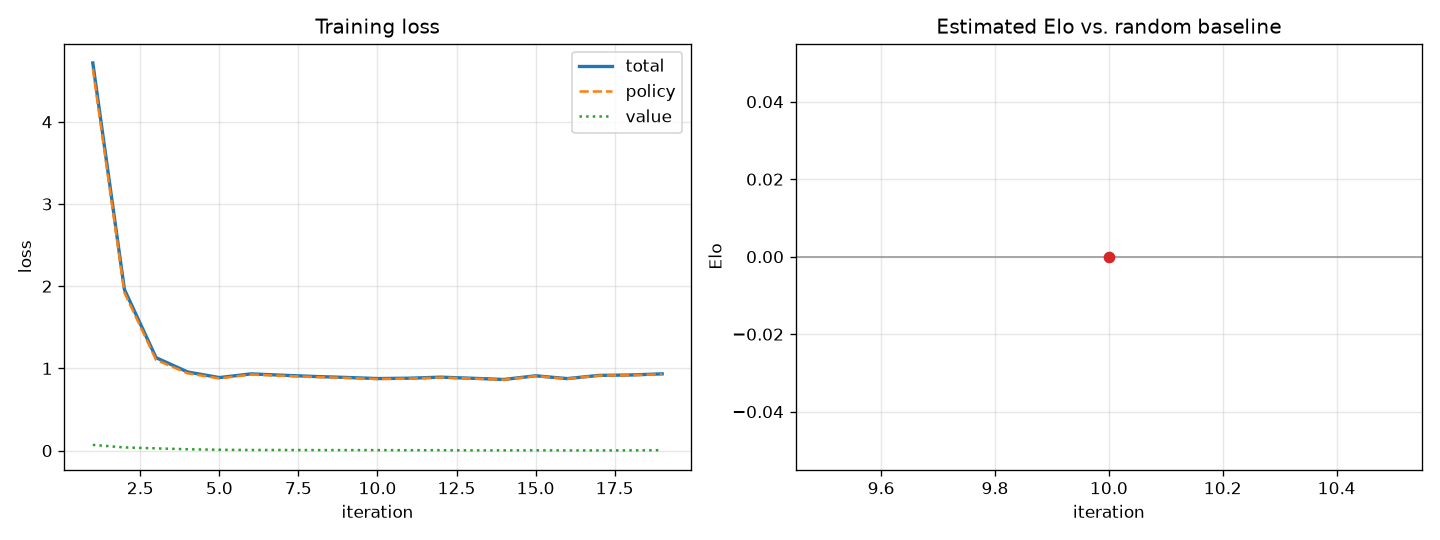
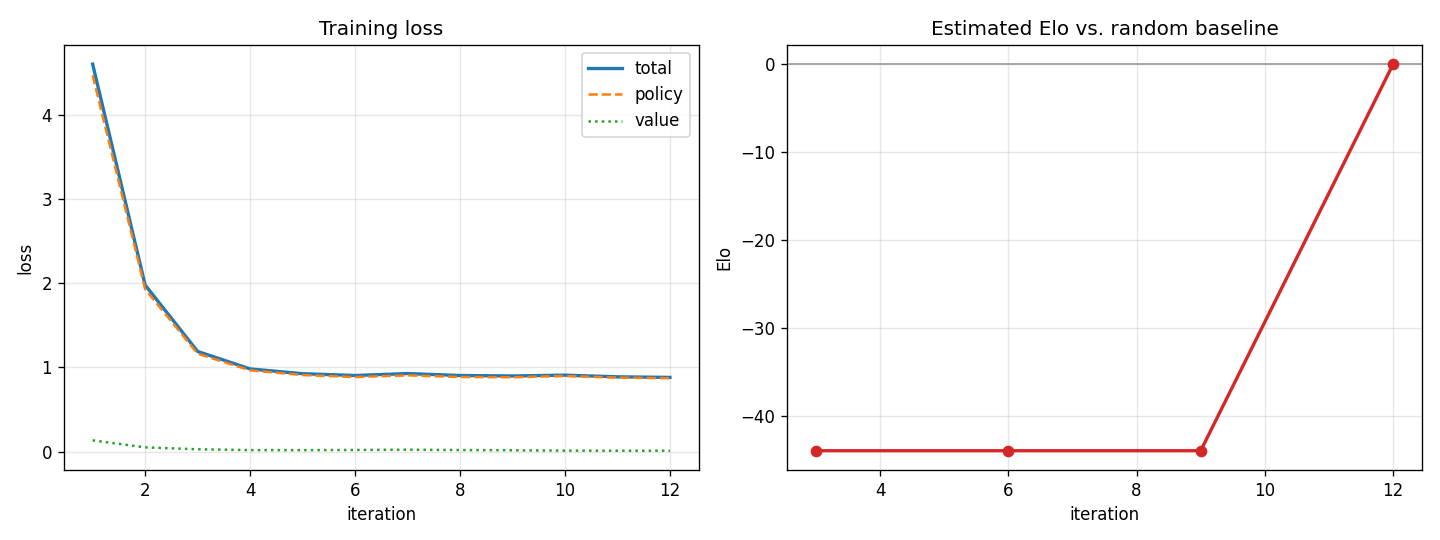
Wire in the real Colab GPU training run
- example_checkpoint.pt: the model from a completed 12-iteration GPU run
- assets/ + web/static training_progress.png: the actual learning curves
- README: honest results writeup -- policy loss 4.6 -> 0.88 (the RL machinery
  demonstrably learns), but the engine still only draws random; the value loss
  collapsing toward zero shows the draw cycle. Reaching strength is a
  compute/scale problem (AlphaZero used millions of games; this run ~96), which
  is why the live demo uses the classical engine.

diff --git a/README.md b/README.md
@@ -295,21 +295,28 @@ fitting the data, and is the engine actually getting stronger?*
 
 ### Training results (and an honest note on scale)
 
-Below is a short **CPU** training run (~19 iterations, ~100 self-play games):
+Below is a real **GPU (Colab)** training run — 12 iterations, ~96 self-play games:
 
 ![training progress](assets/training_progress.png)
 
-The **policy loss drops sharply** (4.7 → ~0.9): the network is clearly learning to
-imitate the search. But two things are visible and worth being honest about:
+The **policy loss drops sharply** (4.6 → ~0.88): the network rapidly learns to imitate
+its own search — clear evidence the RL machinery works. But, being honest about what
+the numbers show:
 
-1. The **value loss sits near zero**, and
-2. the engine does **not yet beat the random baseline** (Elo ≈ 0).
+1. The **value loss collapses toward zero**, and
+2. the engine still only **draws the random baseline** (it went +0 =8 across the last
+   eval — the small Elo wiggle is just one game's noise, not a real strength gain).
 
-Both have the same cause — a **draw cycle**. A weak engine's self-play games almost
-always run to the move cap and end in *draws*, so the value target is almost always
-`0`; the value head learns only to predict "even," which keeps the search weak, which
-keeps games drawish. Escaping this requires **far more (and more decisive) self-play
-games** than a single CPU can produce in reasonable time.
+Both have the same cause — a **draw cycle**. A still-weak network can't *convert*, so
+its self-play games run long and end in draws; the value target is therefore almost
+always `0`, the value head learns only to predict "even," and the search stays weak.
+Escaping it needs **far more self-play than a short run provides** — AlphaZero used
+*millions* of games; this run played under a hundred. The learning *mechanism* is
+correct and visible; reaching strength is a compute story, not an algorithm one.
+
+> This is exactly why the **live demo plays via the classical alpha-beta engine** — it
+> gives a genuinely strong opponent today, while the neural network above remains the
+> from-scratch *learning* project.
 
 **To train a genuinely strong engine**, run on a GPU with more self-play. A ready-made
 Colab notebook does exactly this on free, dedicated compute (so it won't crash from a